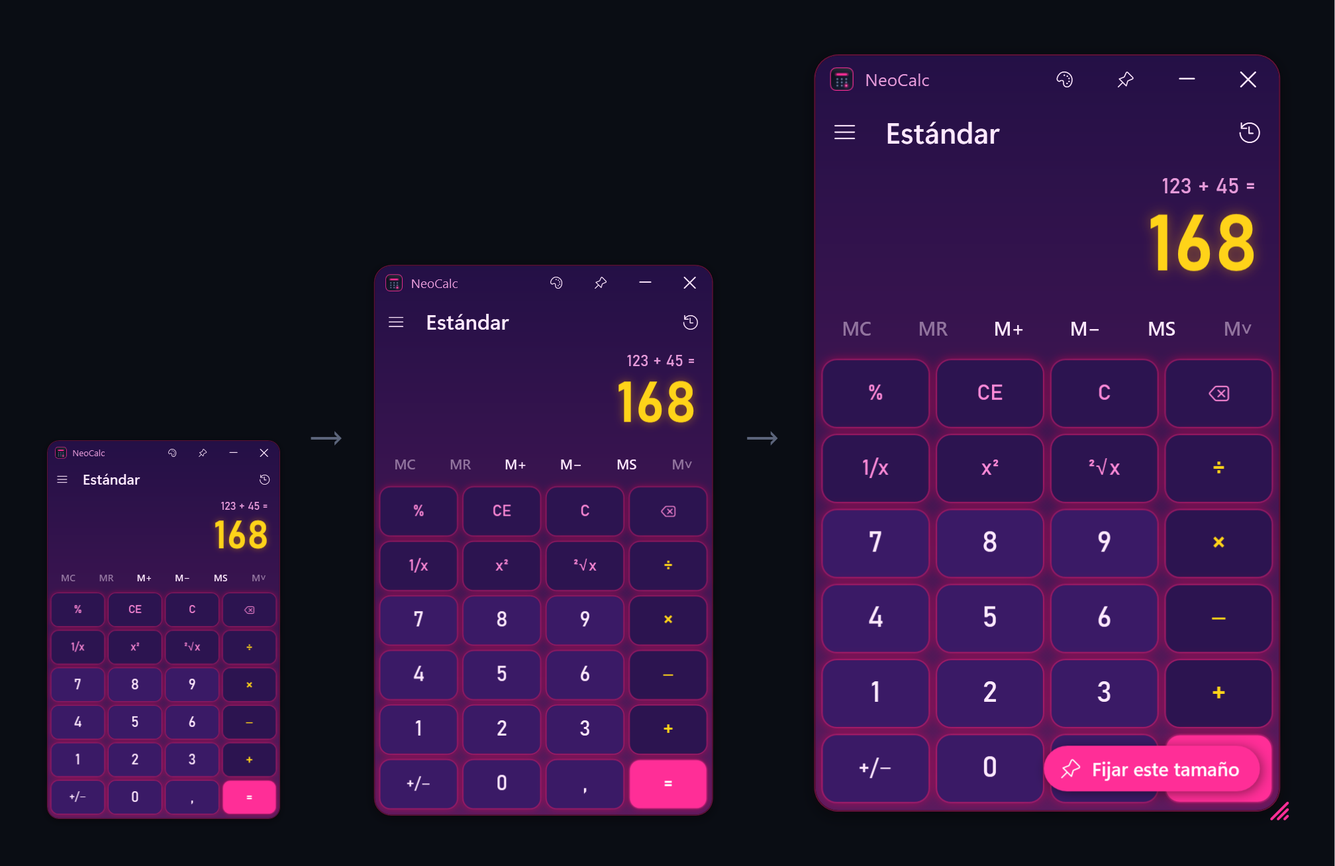
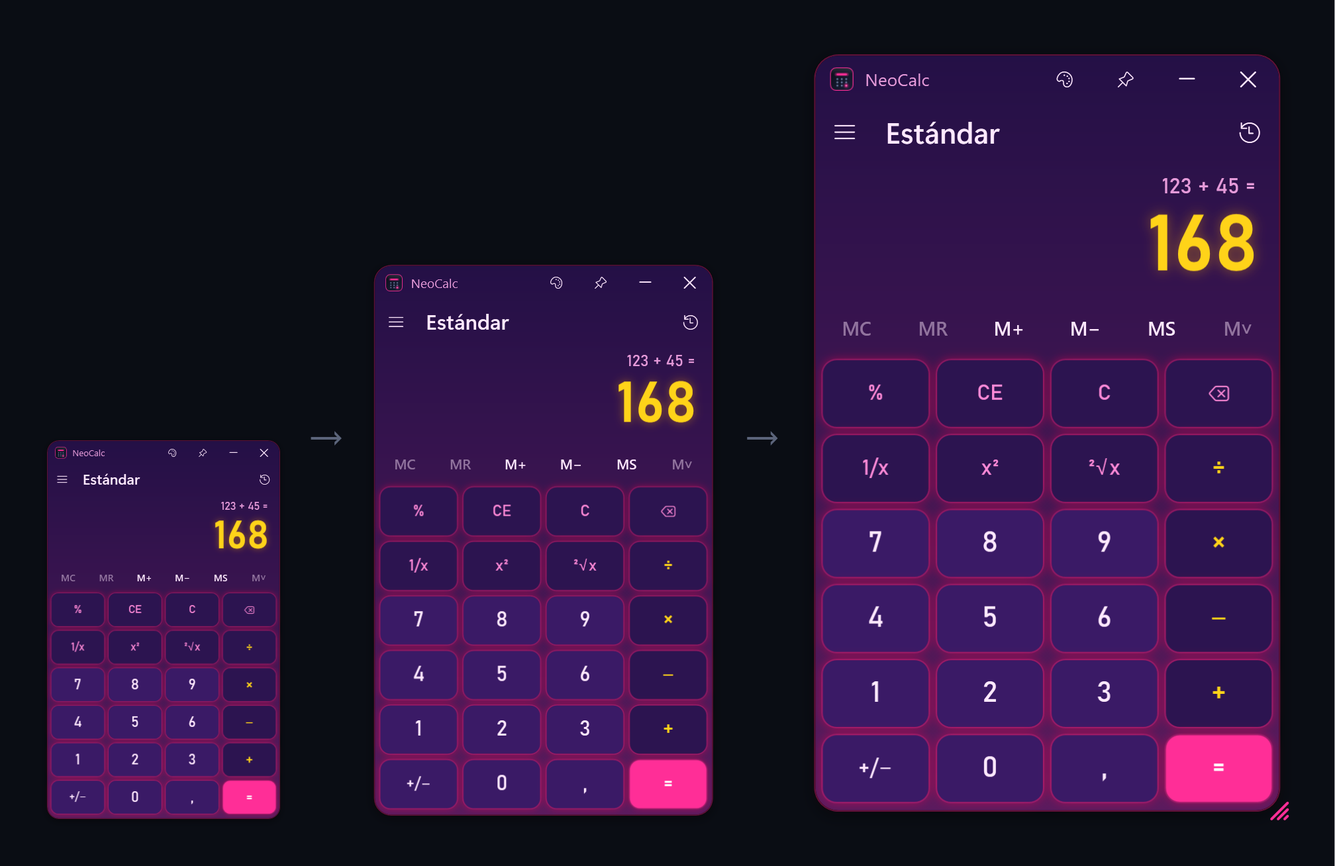
Quitar el botón "Fijar este tamaño": la calculadora se abre con el último tamaño usado

Changed region(s): [[0.7812, 0.8563, 0.9688, 0.948]]

diff --git a/src/VentanaCalc.cs b/src/VentanaCalc.cs
@@ -810,8 +810,6 @@ namespace NeoCalc
 
         Grid contenido;            // todo lo de dentro de la ventana; se escala junto con ella
         double escala = 1;
-        Border botonFijar;
-        DispatcherTimer ocultarFijar;
         Size antesDeRedimensionar;
 
         // Tamano "base" (el de la calculadora a escala 1, sin el margen de la sombra)
@@ -845,40 +843,20 @@ namespace NeoCalc
             contenido.LayoutTransform = Math.Abs(s - 1) < 0.002 ? Transform.Identity : new ScaleTransform(s, s);
         }
 
+        // Se abre siempre con el ultimo tamano que tenia la ventana (uno para estandar y otro para cientifica)
         Size TamanoAlAbrir(bool cientifica)
         {
-            double w = cientifica ? Cfg.FijoAnchoCientifica : Cfg.FijoAncho;
-            double h = cientifica ? Cfg.FijoAltoCientifica : Cfg.FijoAlto;
-            if (w > 0 && h > 0) return new Size(w, h);
             return cientifica ? new Size(Cfg.AnchoCientifica, Cfg.AltoCientifica) : new Size(Cfg.Ancho, Cfg.Alto);
-        }
-
-        bool TamanoFijado(bool cientifica) { return (cientifica ? Cfg.FijoAnchoCientifica : Cfg.FijoAncho) > 0; }
-
-        void FijarTamano()
-        {
-            if (Motor.Cientifica) { Cfg.FijoAnchoCientifica = Width; Cfg.FijoAltoCientifica = Height; }
-            else { Cfg.FijoAncho = Width; Cfg.FijoAlto = Height; }
-            GuardarAhora();
-            Aviso("\uE73E", L.F("Se abrirá con {0} × {1}", Math.Round(Width), Math.Round(Height)), null, 2500);
-        }
-
-        void QuitarTamanoFijo()
-        {
-            if (Motor.Cientifica) { Cfg.FijoAnchoCientifica = 0; Cfg.FijoAltoCientifica = 0; }
-            else { Cfg.FijoAncho = 0; Cfg.FijoAlto = 0; }
-            GuardarAhora();
         }
 
         void RestablecerTamano()
         {
-            QuitarTamanoFijo();
             Width = Motor.Cientifica ? 400 : 340;
             Height = Motor.Cientifica ? 620 : 540;
             GuardarAhora();
         }
 
-        // Ventana = sombra/margen transparente + calculadora + asa de la esquina + aviso "Fijar este tamano"
+        // Ventana = sombra/margen transparente + calculadora + asa de la esquina para estirar
         FrameworkElement Envolver(FrameworkElement calc)
         {
             Grid w = new Grid();
@@ -907,43 +885,7 @@ namespace NeoCalc
                 SendMessage(h, 0x0112, new IntPtr(0xF008), IntPtr.Zero); // WM_SYSCOMMAND, SC_SIZE + abajo-derecha
             };
             w.Children.Add(asa);
-
-            // aviso que aparece al terminar de estirar
-            botonFijar = new Border { HorizontalAlignment = HorizontalAlignment.Right, VerticalAlignment = VerticalAlignment.Bottom, Margin = new Thickness(0, 0, 24, 24), CornerRadius = new CornerRadius(16), Padding = new Thickness(12, 7, 14, 7), Visibility = Visibility.Collapsed, Cursor = Cursors.Hand };
-            botonFijar.Effect = new DropShadowEffect { BlurRadius = 12, ShadowDepth = 2, Opacity = 0.45 };
-            w.Children.Add(botonFijar);
             return w;
-        }
-
-        // Muestra el aviso flotante; si accion != null es un boton
-        void Aviso(string glifo, string texto, Action accion, int ms)
-        {
-            if (botonFijar == null) return;
-            Color ca = Tema.C(Tema.Acento); ca.A = 255;
-            botonFijar.Background = new SolidColorBrush(ca);
-            Brush fg = Tema.Luz(ca) > 0.55 ? (Brush)new SolidColorBrush(Color.FromRgb(0x10, 0x12, 0x1C)) : Brushes.White;
-            StackPanel sp = new StackPanel { Orientation = Orientation.Horizontal };
-            sp.Children.Add(new TextBlock { Text = glifo, FontFamily = Iconos, FontSize = 13, Foreground = fg, VerticalAlignment = VerticalAlignment.Center, Margin = new Thickness(0, 0, 8, 0) });
-            sp.Children.Add(new TextBlock { Text = texto, FontSize = 13, FontWeight = FontWeights.SemiBold, Foreground = fg, VerticalAlignment = VerticalAlignment.Center, FontFamily = new FontFamily("Segoe UI Variable Text, Segoe UI") });
-            botonFijar.Child = sp;
-            botonFijar.Tag = accion;
-            if (botonFijar.ToolTip == null)
-                Clic.En(botonFijar, delegate
-                {
-                    Action a = botonFijar.Tag as Action;
-                    botonFijar.Visibility = Visibility.Collapsed;
-                    if (a != null) a();
-                });
-            botonFijar.ToolTip = texto;
-            botonFijar.Visibility = Visibility.Visible;
-            if (ocultarFijar == null)
-            {
-                ocultarFijar = new DispatcherTimer();
-                ocultarFijar.Tick += delegate { ocultarFijar.Stop(); if (botonFijar != null && !botonFijar.IsMouseOver) botonFijar.Visibility = Visibility.Collapsed; else ocultarFijar.Start(); };
-            }
-            ocultarFijar.Stop();
-            ocultarFijar.Interval = TimeSpan.FromMilliseconds(ms);
-            ocultarFijar.Start();
         }
 
         IntPtr Mensajes(IntPtr hwnd, int msg, IntPtr wp, IntPtr lp, ref bool handled)
@@ -951,12 +893,9 @@ namespace NeoCalc
             if (msg == 0x0231) antesDeRedimensionar = new Size(Width, Height);          // WM_ENTERSIZEMOVE
             else if (msg == 0x0232)                                                       // WM_EXITSIZEMOVE
             {
-                bool cambio = Math.Abs(antesDeRedimensionar.Width - Width) > 1 || Math.Abs(antesDeRedimensionar.Height - Height) > 1;
-                if (cambio)
-                {
-                    GuardarLuego();
-                    Aviso("\uE840", L.T("Fijar este tamaño"), delegate { FijarTamano(); }, 6000);
-                }
+                // al soltar se guarda el tamano: la proxima vez se abrira asi
+                if (Math.Abs(antesDeRedimensionar.Width - Width) > 1 || Math.Abs(antesDeRedimensionar.Height - Height) > 1)
+                    GuardarAhora();
             }
             return IntPtr.Zero;
         }
@@ -1163,7 +1102,6 @@ namespace NeoCalc
             sp.Children.Add(Cabecera(L.T("Apariencia")));
             sp.Children.Add(Opcion("", L.T("Temas y personalización…"), "Ctrl+T", false, delegate { AbrirTemas(); }));
             sp.Children.Add(Opcion("", L.T("Siempre encima"), null, Topmost, delegate { CambiarEncima(!Topmost); }));
-            sp.Children.Add(Opcion("\uE840", L.T("Abrir siempre con este tamaño"), null, TamanoFijado(Motor.Cientifica), delegate { if (TamanoFijado(Motor.Cientifica)) QuitarTamanoFijo(); else FijarTamano(); }));
             sp.Children.Add(Opcion("\uE72C", L.T("Restablecer el tamaño"), null, false, delegate { RestablecerTamano(); }));
             sp.Children.Add(Opcion("", L.T("Icono de la barra con los colores del tema"), null, Cfg.IconoDelTema, delegate { Cfg.IconoDelTema = !Cfg.IconoDelTema; PonerIcono(); GuardarLuego(); }));
             sp.Children.Add(Opcion("", L.T("Historial al lado (ventana ancha)"), null, Cfg.PanelLateral, delegate { Cfg.PanelLateral = !Cfg.PanelLateral; ActualizarLateral(); GuardarLuego(); }));

diff --git a/src/App.cs b/src/App.cs
@@ -96,7 +96,7 @@ namespace NeoCalc
 
         static void Guardar(BitmapSource b, string png) { Icono.GuardarPng(b, png); }
 
-        // La calculadora a varios tamanos, con el asa de la esquina y el boton "Fijar este tamano" (para la web)
+        // La calculadora a varios tamanos, con el asa de la esquina (para la web)
         static void CapturaTamanos(string png)
         {
             double[] escalas = { 0.55, 0.8, 1.1 };
@@ -124,13 +124,6 @@ namespace NeoCalc
                         HorizontalAlignment = HorizontalAlignment.Right, VerticalAlignment = VerticalAlignment.Bottom, Width = 22, Height = 22
                     };
                     caja.Children.Add(rayas);
-                    Border pill = new Border { HorizontalAlignment = HorizontalAlignment.Right, VerticalAlignment = VerticalAlignment.Bottom, Margin = new Thickness(0, 0, 24, 24), CornerRadius = new CornerRadius(16), Padding = new Thickness(12, 7, 14, 7), Background = new SolidColorBrush(ca) };
-                    pill.Effect = new System.Windows.Media.Effects.DropShadowEffect { BlurRadius = 12, ShadowDepth = 2, Opacity = 0.45 };
-                    StackPanel sp = new StackPanel { Orientation = Orientation.Horizontal };
-                    sp.Children.Add(new TextBlock { Text = "\uE840", FontFamily = new FontFamily("Segoe Fluent Icons, Segoe MDL2 Assets"), FontSize = 13, Foreground = Brushes.White, VerticalAlignment = VerticalAlignment.Center, Margin = new Thickness(0, 0, 8, 0) });
-                    sp.Children.Add(new TextBlock { Text = L.T("Fijar este tamaño"), FontSize = 13, FontWeight = FontWeights.SemiBold, Foreground = Brushes.White, VerticalAlignment = VerticalAlignment.Center, FontFamily = new FontFamily("Segoe UI Variable Text, Segoe UI") });
-                    pill.Child = sp;
-                    caja.Children.Add(pill);
                 }
                 caja.LayoutTransform = new ScaleTransform(escalas[i], escalas[i]);
                 fila.Children.Add(caja);

diff --git a/src/Tema.cs b/src/Tema.cs
@@ -352,7 +352,7 @@ namespace NeoCalc
         public string Angulo = "DEG";
         public double X = -99999, Y = -99999, Ancho = 340, Alto = 540;
         public double AnchoCientifica = 400, AltoCientifica = 620;
-        // tamano "fijado" con el que se abre la calculadora (0 = abrir con el ultimo tamano usado)
+        // version 1.2.0: tamano "fijado" al abrir (ya no se usa; se conserva para leer configuraciones antiguas)
         public double FijoAncho, FijoAlto, FijoAnchoCientifica, FijoAltoCientifica;
         public bool SiempreEncima;
         public bool IconoDelTema = true;

diff --git a/src/AssemblyInfo.cs b/src/AssemblyInfo.cs
@@ -5,5 +5,5 @@ using System.Reflection;
 [assembly: AssemblyDescription("Calculadora con temas y personalización")]
 [assembly: AssemblyCompany("Divolandia Labs")]
 [assembly: AssemblyCopyright("© 2026 Divolandia Labs")]
-[assembly: AssemblyVersion("1.2.1.0")]
-[assembly: AssemblyFileVersion("1.2.1.0")]
+[assembly: AssemblyVersion("1.2.2.0")]
+[assembly: AssemblyFileVersion("1.2.2.0")]

diff --git a/README.ru.md b/README.ru.md
@@ -15,7 +15,7 @@
 - **Обычный режим** точно как в калькуляторе Windows: действия выполняются по цепочке (3 + 5 × 2 = 16), `=` повторяет последнее действие, а `%` работает так же.
 - **Инженерный режим** с приоритетом операций и скобками (3 + 5 × 2 = 13), `2nd`, DEG/RAD/GRAD, экспоненциальная запись (F-E), тригонометрия, логарифмы, степени, корни, `n!` (в том числе для дробных), `mod` и `exp`.
 - **Журнал и память** (MC, MR, M+, M−, MS): в боковой панели, если окно широкое, или поверх клавиш, если узкое.
-- **Любой размер**: потяните за угол — весь калькулятор увеличится или уменьшится; кнопка **Закрепить этот размер** сохранит его для следующих запусков.
+- **Любой размер**: потяните за угол — весь калькулятор увеличится или уменьшится; в следующий раз он откроется в последнем выбранном размере.
 - **Полная поддержка клавиатуры**, копирование и вставка, кнопка **Поверх всех окон**.
 - **26 тем**: Windows тёмная и светлая, Кибер-неон, Synthwave, Matrix, Ретро-LCD, Янтарный терминал, Дракула, Северная, Game Boy, Голограмма, Стекло, Круглая (в стиле iPhone), Золото и чёрный, Vaporwave…
 - **Редактор тем** с мгновенным предпросмотром, выбором цвета с прозрачностью, кнопкой **Случайная** и **импортом/экспортом** тем (`.neocalc.json`).
@@ -24,7 +24,7 @@
 
 ![26 встроенных тем](docs/screenshots/en-galeria.png)
 
-![Калькулятор в нескольких размерах с кнопкой «Закрепить этот размер»](docs/screenshots/en-tamanos.png)
+![Калькулятор в нескольких размерах](docs/screenshots/en-tamanos.png)
 
 ## Установка
 

diff --git a/README.ja.md b/README.ja.md
@@ -15,7 +15,7 @@
 - **標準モード**は Windows の電卓と同じ動作です: 計算は順番につながり (3 + 5 × 2 = 16)、`=` で直前の計算を繰り返し、`%` も同じように働きます。
 - **関数電卓モード**は演算子の優先順位とかっこに対応 (3 + 5 × 2 = 13)。`2nd`、DEG/RAD/GRAD、指数表記 (F-E)、三角関数、対数、べき乗、累乗根、`n!` (小数も可)、`mod`、`exp`。
 - **履歴とメモリ** (MC、MR、M+、M−、MS): ウィンドウが広いときは横のパネルに、狭いときはキーの上に表示されます。
-- **好きなサイズで**: 角をドラッグすると電卓全体が拡大・縮小し、**このサイズに固定**を押すと次回からそのサイズで開きます。
+- **好きなサイズで**: 角をドラッグすると電卓全体が拡大・縮小し、次回は最後に使ったサイズで開きます。
 - **キーボード操作に完全対応**、コピー & 貼り付け、**常に手前に表示**ボタン。
 - **26 種類のテーマ**: Windows ダーク / ライト、サイバーネオン、Synthwave、Matrix、レトロ液晶、アンバー端末、ドラキュラ、ノルディック、Game Boy、ホログラム、ガラス、丸型 (iPhone 風)、ゴールド&ブラック、Vaporwave…
 - **テーマエディター**: その場でプレビュー、透明度付きのカラーピッカー、**ランダム**ボタン、テーマの**インポート / エクスポート** (`.neocalc.json`)。
@@ -24,7 +24,7 @@
 
 ![26 種類の内蔵テーマ](docs/screenshots/en-galeria.png)
 
-![さまざまなサイズの電卓と「このサイズに固定」ボタン](docs/screenshots/en-tamanos.png)
+![さまざまなサイズの電卓](docs/screenshots/en-tamanos.png)
 
 ## インストール
 

diff --git a/README.fr.md b/README.fr.md
@@ -15,7 +15,7 @@ touches rondes, lueur néon, écran LCD… Un seul `.exe` d'environ 200 Ko, sans
 - **Mode standard** identique à la calculatrice de Windows : les opérations s'enchaînent (3 + 5 × 2 = 16), `=` répète la dernière opération et `%` fonctionne de la même façon.
 - **Mode scientifique** avec priorité des opérateurs et parenthèses (3 + 5 × 2 = 13), `2nd`, DEG/RAD/GRAD, notation scientifique (F-E), trigonométrie, logarithmes, puissances, racines, `n!` (y compris décimaux), `mod` et `exp`.
 - **Historique et mémoire** (MC, MR, M+, M−, MS) : dans un panneau latéral si la fenêtre est large, ou par-dessus les touches si elle est étroite.
-- **À la taille de votre choix** : faites glisser le coin et toute la calculatrice grandit ou rétrécit ; avec **Garder cette taille**, elle s'ouvrira toujours ainsi.
+- **À la taille de votre choix** : faites glisser le coin et toute la calculatrice grandit ou rétrécit ; elle se rouvre ensuite à la dernière taille utilisée.
 - **Clavier complet**, copier-coller et bouton **Toujours au premier plan**.
 - **26 thèmes** : Windows sombre et clair, Néon cyber, Synthwave, Matrix, LCD rétro, Terminal ambre, Dracula, Nordique, Game Boy, Hologramme, Verre, Ronde (style iPhone), Or et noir, Vaporwave…
 - **Éditeur de thèmes** avec aperçu instantané, sélecteur de couleur avec transparence, bouton **Aléatoire** et **import/export** de thèmes (`.neocalc.json`).
@@ -24,7 +24,7 @@ touches rondes, lueur néon, écran LCD… Un seul `.exe` d'environ 200 Ko, sans
 
 ![Les 26 thèmes inclus](docs/screenshots/en-galeria.png)
 
-![La calculatrice à plusieurs tailles avec le bouton Garder cette taille](docs/screenshots/en-tamanos.png)
+![La calculatrice à plusieurs tailles](docs/screenshots/en-tamanos.png)
 
 ## Installation
 

diff --git a/README.it.md b/README.it.md
@@ -15,7 +15,7 @@ tasti rotondi, bagliore neon, display LCD… Un solo `.exe` di circa 200 KB, sen
 - **Modalità standard** identica alla calcolatrice di Windows: le operazioni si concatenano (3 + 5 × 2 = 16), `=` ripete l'ultima operazione e `%` funziona allo stesso modo.
 - **Modalità scientifica** con precedenza degli operatori e parentesi (3 + 5 × 2 = 13), `2nd`, DEG/RAD/GRAD, notazione scientifica (F-E), trigonometria, logaritmi, potenze, radici, `n!` (anche con decimali), `mod` ed `exp`.
 - **Cronologia e memoria** (MC, MR, M+, M−, MS): in un pannello laterale se la finestra è larga, o sopra i tasti se è stretta.
-- **Della dimensione che vuoi**: trascina l'angolo e tutta la calcolatrice si ingrandisce o si rimpicciolisce; con **Mantieni questa dimensione** si aprirà sempre così.
+- **Della dimensione che vuoi**: trascina l'angolo e tutta la calcolatrice si ingrandisce o si rimpicciolisce; la volta successiva si apre con l'ultima dimensione usata.
 - **Tastiera completa**, copia e incolla, e pulsante **Sempre in primo piano**.
 - **26 temi**: Windows scuro e chiaro, Neon cyber, Synthwave, Matrix, LCD retrò, Terminale ambra, Dracula, Nordico, Game Boy, Ologramma, Vetro, Rotonda (stile iPhone), Oro e nero, Vaporwave…
 - **Editor dei temi** con anteprima immediata, selettore di colore con trasparenza, pulsante **Casuale** e **importazione/esportazione** dei temi (`.neocalc.json`).
@@ -24,7 +24,7 @@ tasti rotondi, bagliore neon, display LCD… Un solo `.exe` di circa 200 KB, sen
 
 ![I 26 temi inclusi](docs/screenshots/en-galeria.png)
 
-![La calcolatrice in diverse dimensioni con il pulsante Mantieni questa dimensione](docs/screenshots/en-tamanos.png)
+![La calcolatrice in diverse dimensioni](docs/screenshots/en-tamanos.png)
 
 ## Installazione
 

diff --git a/README.de.md b/README.de.md
@@ -15,7 +15,7 @@ runde Tasten, Neonleuchten, LCD-Anzeige… Eine einzige `.exe` mit etwa 200 KB, 
 - **Standardmodus** genau wie der Windows-Rechner: Rechnungen werden verkettet (3 + 5 × 2 = 16), `=` wiederholt die letzte Rechnung und `%` verhält sich gleich.
 - **Wissenschaftlicher Modus** mit Operatorrangfolge und Klammern (3 + 5 × 2 = 13), `2nd`, DEG/RAD/GRAD, wissenschaftliche Notation (F-E), Trigonometrie, Logarithmen, Potenzen, Wurzeln, `n!` (auch mit Dezimalzahlen), `mod` und `exp`.
 - **Verlauf und Speicher** (MC, MR, M+, M−, MS): in einem Seitenbereich bei breitem Fenster oder über den Tasten bei schmalem.
-- **Beliebige Größe**: Ziehen Sie an der Ecke, und der ganze Rechner wird größer oder kleiner; mit **Diese Größe behalten** öffnet er sich immer so.
+- **Beliebige Größe**: Ziehen Sie an der Ecke, und der ganze Rechner wird größer oder kleiner; beim nächsten Start öffnet er sich in der zuletzt gewählten Größe.
 - **Volle Tastaturbedienung**, Kopieren und Einfügen sowie die Schaltfläche **Immer im Vordergrund**.
 - **26 Designs**: Windows dunkel und hell, Cyber-Neon, Synthwave, Matrix, Retro-LCD, Bernstein-Terminal, Dracula, Nordisch, Game Boy, Hologramm, Glas, Rund (iPhone-Stil), Gold und Schwarz, Vaporwave…
 - **Design-Editor** mit Live-Vorschau, Farbwähler mit Transparenz, Schaltfläche **Zufällig** und **Import/Export** von Designs (`.neocalc.json`).
@@ -24,7 +24,7 @@ runde Tasten, Neonleuchten, LCD-Anzeige… Eine einzige `.exe` mit etwa 200 KB, 
 
 ![Die 26 integrierten Designs](docs/screenshots/en-galeria.png)
 
-![Der Rechner in mehreren Größen mit der Schaltfläche Diese Größe behalten](docs/screenshots/en-tamanos.png)
+![Der Rechner in mehreren Größen](docs/screenshots/en-tamanos.png)
 
 ## Installation
 

diff --git a/README.pl.md b/README.pl.md
@@ -15,7 +15,7 @@ okrągłe klawisze, neonowa poświata, wyświetlacz LCD… Jeden plik `.exe` o r
 - **Tryb standardowy** dokładnie jak kalkulator Windows: działania są łączone po kolei (3 + 5 × 2 = 16), `=` powtarza ostatnie działanie, a `%` działa tak samo.
 - **Tryb naukowy** z kolejnością działań i nawiasami (3 + 5 × 2 = 13), `2nd`, DEG/RAD/GRAD, notacja naukowa (F-E), trygonometria, logarytmy, potęgi, pierwiastki, `n!` (także dla ułamków), `mod` i `exp`.
 - **Historia i pamięć** (MC, MR, M+, M−, MS): w panelu bocznym, gdy okno jest szerokie, lub nad klawiszami, gdy jest wąskie.
-- **Dowolny rozmiar**: przeciągnij róg, a cały kalkulator się powiększy lub zmniejszy; przycisk **Zachowaj ten rozmiar** sprawi, że zawsze będzie się tak otwierał.
+- **Dowolny rozmiar**: przeciągnij róg, a cały kalkulator się powiększy lub zmniejszy; przy następnym uruchomieniu otworzy się w ostatnio ustawionym rozmiarze.
 - **Pełna obsługa klawiatury**, kopiowanie i wklejanie oraz przycisk **Zawsze na wierzchu**.
 - **26 motywów**: Windows ciemny i jasny, Cyber neon, Synthwave, Matrix, Retro LCD, Bursztynowy terminal, Dracula, Nordycki, Game Boy, Hologram, Szkło, Okrągła (styl iPhone), Złoto i czerń, Vaporwave…
 - **Edytor motywów** z podglądem na żywo, próbnikiem kolorów z przezroczystością, przyciskiem **Losowy** oraz **importem/eksportem** motywów (`.neocalc.json`).
@@ -24,7 +24,7 @@ okrągłe klawisze, neonowa poświata, wyświetlacz LCD… Jeden plik `.exe` o r
 
 ![26 wbudowanych motywów](docs/screenshots/en-galeria.png)
 
-![Kalkulator w kilku rozmiarach z przyciskiem Zachowaj ten rozmiar](docs/screenshots/en-tamanos.png)
+![Kalkulator w kilku rozmiarach](docs/screenshots/en-tamanos.png)
 
 ## Instalacja
 

diff --git a/README.md b/README.md
@@ -15,7 +15,7 @@ teclas redondas, brillo neón, pantalla LCD… Un solo `.exe` de unos 200 KB, si
 - **Modo estándar** igual que la calculadora de Windows: las operaciones se encadenan (3 + 5 × 2 = 16), `=` repite la última operación y `%` funciona igual.
 - **Modo científico** con prioridad de operadores y paréntesis (3 + 5 × 2 = 13), `2nd`, DEG/RAD/GRAD, notación científica (F-E), trigonometría, logaritmos, potencias, raíces, `n!` (también con decimales), `mod` y `exp`.
 - **Historial y memoria** (MC, MR, M+, M−, MS): en un panel lateral si la ventana es ancha, o por encima de las teclas si es estrecha.
-- **Tamaño a tu gusto**: estira la ventana desde la esquina y toda la calculadora crece o se encoge; con **Fijar este tamaño** se abrirá siempre así.
+- **Tamaño a tu gusto**: estira la ventana desde la esquina y toda la calculadora crece o se encoge; la próxima vez se abrirá con el último tamaño que dejaste.
 - **Teclado completo**, copiar y pegar, y botón **Siempre encima**.
 - **26 temas**: Windows oscuro y claro, Neón cyber, Synthwave, Matrix, LCD retro, Terminal ámbar, Drácula, Nórdico, Game Boy, Holograma, Cristal, Redonda (estilo iPhone), Oro y negro, Vaporwave…
 - **Editor de temas** con vista previa al momento, selector de color con transparencia, botón **Aleatorio** e **importar/exportar** temas (`.neocalc.json`).
@@ -24,7 +24,7 @@ teclas redondas, brillo neón, pantalla LCD… Un solo `.exe` de unos 200 KB, si
 
 ![Los 26 temas incluidos](docs/screenshots/es-galeria.png)
 
-![La calculadora a varios tamaños con el botón Fijar este tamaño](docs/screenshots/es-tamanos.png)
+![La calculadora a varios tamaños](docs/screenshots/es-tamanos.png)
 
 ## Instalar
 

diff --git a/README.pt.md b/README.pt.md
@@ -15,7 +15,7 @@ teclas redondas, brilho neon, visor LCD… Um único `.exe` de cerca de 200 KB, 
 - **Modo padrão** igual à calculadora do Windows: as operações se encadeiam (3 + 5 × 2 = 16), `=` repete a última operação e `%` funciona da mesma forma.
 - **Modo científico** com precedência de operadores e parênteses (3 + 5 × 2 = 13), `2nd`, DEG/RAD/GRAD, notação científica (F-E), trigonometria, logaritmos, potências, raízes, `n!` (também com decimais), `mod` e `exp`.
 - **Histórico e memória** (MC, MR, M+, M−, MS): num painel lateral se a janela for larga, ou sobre as teclas se for estreita.
-- **Do tamanho que quiser**: arraste o canto e toda a calculadora aumenta ou diminui; com **Fixar este tamanho** ela abrirá sempre assim.
+- **Do tamanho que quiser**: arraste o canto e toda a calculadora aumenta ou diminui; da próxima vez ela abre com o último tamanho que você deixou.
 - **Teclado completo**, copiar e colar, e botão **Sempre visível**.
 - **26 temas**: Windows escuro e claro, Neon cyber, Synthwave, Matrix, LCD retrô, Terminal âmbar, Drácula, Nórdico, Game Boy, Holograma, Vidro, Redonda (estilo iPhone), Ouro e preto, Vaporwave…
 - **Editor de temas** com pré-visualização instantânea, seletor de cor com transparência, botão **Aleatório** e **importar/exportar** temas (`.neocalc.json`).
@@ -24,7 +24,7 @@ teclas redondas, brilho neon, visor LCD… Um único `.exe` de cerca de 200 KB, 
 
 ![Os 26 temas incluídos](docs/screenshots/en-galeria.png)
 
-![A calculadora em vários tamanhos com o botão Fixar este tamanho](docs/screenshots/en-tamanos.png)
+![A calculadora em vários tamanhos](docs/screenshots/en-tamanos.png)
 
 ## Instalar
 
